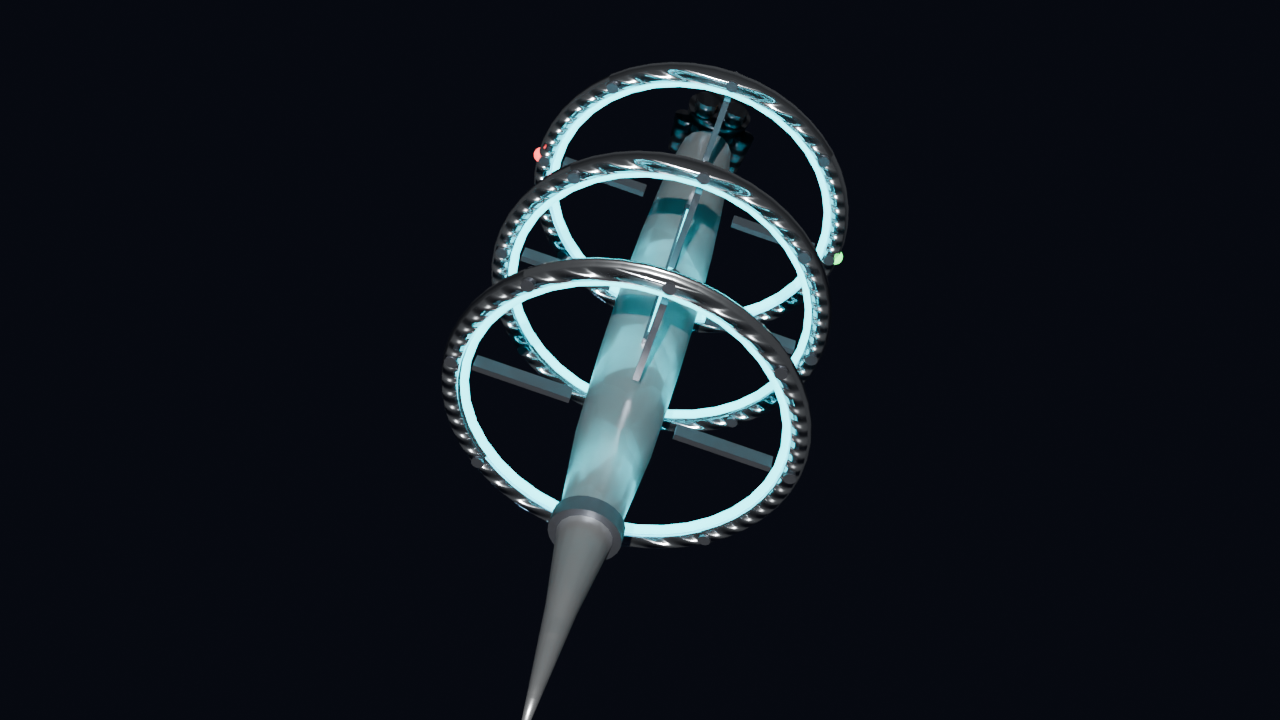
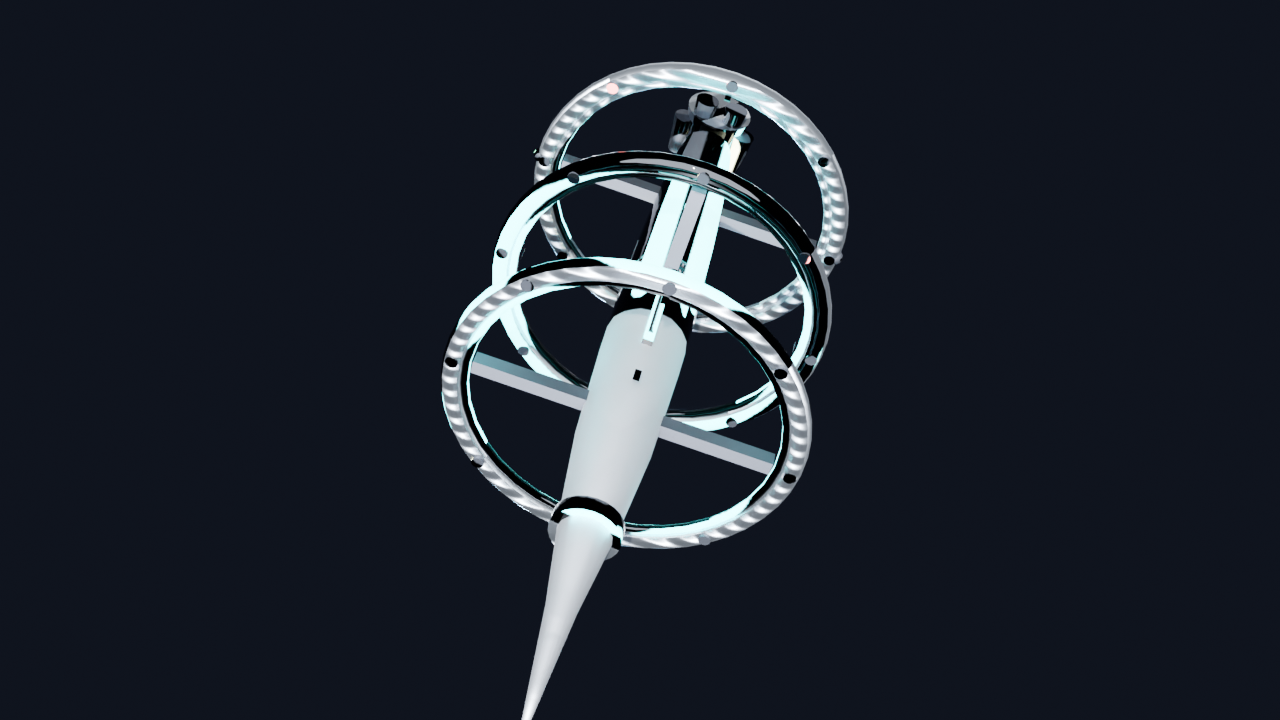
docs(render): refresh Ring Ship showcase from the real OBJ atlas / витрина Ring Ship с реального OBJ

Changed region(s): [[0.3438, 0.0611, 0.6875, 1.0]]

diff --git a/blender/scripts/render_ring_ship_showcase.py b/blender/scripts/render_ring_ship_showcase.py
@@ -1,0 +1,232 @@
+"""Render the current `res/models/ring_ship.obj` showcase (Cycles CPU).
+
+The Ring Ship OBJ is a hand-tuned, git-ignored asset: its baked PBR atlas
+matches the UV layout that was produced by `generate_ring_ship.py` on
+2026-10-26. Re-running the generator would re-project UVs and invalidate the
+existing BMP set, so this script deliberately renders the *existing* mesh and
+atlas instead of regenerating them.
+
+Usage (headless):
+  blender -b -P blender/scripts/render_ring_ship_showcase.py
+  blender -b -P blender/scripts/render_ring_ship_showcase.py -- --quick
+  blender -b -P blender/scripts/render_ring_ship_showcase.py -- --out path.png
+
+Options after `--`: --quick (640x360 preview), --out PATH, --flat (debug
+material without the atlas), --no-flip-v (keep raw OBJ UVs; the baked BMP
+atlas is top-down, so V is flipped by default).
+
+Writes:
+  blender/out/final_showcase/ring_ship_showcase.png
+  docs/screens/ring_ship_showcase.png
+"""
+import math
+import os
+import shutil
+import sys
+
+import bpy
+from mathutils import Vector
+
+SCRIPT_DIR = os.path.dirname(os.path.abspath(__file__))
+PROJECT_ROOT = os.path.dirname(SCRIPT_DIR)  # blender/
+REPO_ROOT = os.path.dirname(PROJECT_ROOT)   # astro-voyager/
+RES_MODELS = os.path.join(REPO_ROOT, "res", "models")
+OUT_SHOWCASE = os.path.join(PROJECT_ROOT, "out", "final_showcase")
+DOCS_SCREENS = os.path.join(REPO_ROOT, "docs", "screens")
+
+OBJ_PATH = os.path.join(RES_MODELS, "ring_ship.obj")
+
+
+def argv_flag(name):
+    return name in sys.argv
+
+
+def argv_value(name, default):
+    if name in sys.argv:
+        i = sys.argv.index(name)
+        if i + 1 < len(sys.argv):
+            return sys.argv[i + 1]
+    return default
+
+
+def load_texture(name, non_color=False):
+    path = os.path.join(RES_MODELS, name)
+    if not os.path.isfile(path):
+        raise FileNotFoundError(path)
+    img = bpy.data.images.load(path, check_existing=True)
+    if non_color:
+        img.colorspace_settings.name = "Non-Color"
+    return img
+
+
+def build_flat_material():
+    """Debug material: no atlas, just a neutral PBR surface."""
+    mat = bpy.data.materials.new("RingShipFlat")
+    mat.use_nodes = True
+    bsdf = mat.node_tree.nodes.get("Principled BSDF")
+    bsdf.inputs["Base Color"].default_value = (0.72, 0.78, 0.88, 1.0)
+    bsdf.inputs["Metallic"].default_value = 0.55
+    bsdf.inputs["Roughness"].default_value = 0.32
+    return mat
+
+
+def build_baked_material():
+    """Principled BSDF wired to the five baked BMP maps of the ship atlas."""
+    mat = bpy.data.materials.new("RingShipBaked")
+    mat.use_nodes = True
+    nt = mat.node_tree
+    bsdf = nt.nodes.get("Principled BSDF")
+
+    albedo = nt.nodes.new("ShaderNodeTexImage")
+    albedo.name = "Albedo"
+    albedo.image = load_texture("ring_ship_albedo.bmp")
+    nt.links.new(albedo.outputs["Color"], bsdf.inputs["Base Color"])
+
+    rough = nt.nodes.new("ShaderNodeTexImage")
+    rough.name = "Roughness"
+    rough.image = load_texture("ring_ship_rough.bmp", non_color=True)
+    nt.links.new(rough.outputs["Color"], bsdf.inputs["Roughness"])
+
+    metal = nt.nodes.new("ShaderNodeTexImage")
+    metal.name = "Metallic"
+    metal.image = load_texture("ring_ship_metal.bmp", non_color=True)
+    nt.links.new(metal.outputs["Color"], bsdf.inputs["Metallic"])
+
+    normal_tex = nt.nodes.new("ShaderNodeTexImage")
+    normal_tex.name = "Normal"
+    normal_tex.image = load_texture("ring_ship_normal.bmp", non_color=True)
+    normal_map = nt.nodes.new("ShaderNodeNormalMap")
+    nt.links.new(normal_tex.outputs["Color"], normal_map.inputs["Color"])
+    nt.links.new(normal_map.outputs["Normal"], bsdf.inputs["Normal"])
+
+    emissive = nt.nodes.new("ShaderNodeTexImage")
+    emissive.name = "Emissive"
+    emissive.image = load_texture("ring_ship_emissive.bmp")
+    if "Emission Color" in bsdf.inputs:
+        nt.links.new(emissive.outputs["Color"], bsdf.inputs["Emission Color"])
+    else:  # Blender 3.x name
+        nt.links.new(emissive.outputs["Color"], bsdf.inputs["Emission"])
+    if "Emission Strength" in bsdf.inputs:
+        # The generator bakes a clamped 0..1 emissive atlas but shades the
+        # emitter at strength 4.5; mirror that here or the plasma band goes
+        # dull grey in the showcase.
+        bsdf.inputs["Emission Strength"].default_value = 7.0
+    return mat
+
+
+def setup_render(scene, quick):
+    scene.render.engine = "CYCLES"
+    scene.cycles.device = "CPU"
+    scene.render.resolution_x = 640 if quick else 1280
+    scene.render.resolution_y = 360 if quick else 720
+    scene.render.resolution_percentage = 100
+    scene.render.film_transparent = False
+    scene.cycles.samples = 12 if quick else 64
+    scene.cycles.use_denoising = True
+    scene.view_settings.exposure = 0.6
+
+    # Deep space background, same values as generate_ring_ship.py.
+    world = scene.world
+    if world is None:
+        world = bpy.data.worlds.new("SpaceWorld")
+        scene.world = world
+    world.use_nodes = True
+    bg = world.node_tree.nodes.get("Background")
+    if bg:
+        bg.inputs["Color"].default_value = (0.010, 0.012, 0.022, 1.0)
+        bg.inputs["Strength"].default_value = 0.55
+
+
+def add_camera_and_lights(scene):
+    cam_data = bpy.data.cameras.new("ShowcaseCam")
+    cam_data.lens = 42
+    cam = bpy.data.objects.new("ShowcaseCam", cam_data)
+    cam.location = (2.2, -2.5, 1.4)
+    direction = Vector((0.0, 0.0, 0.0)) - cam.location
+    cam.rotation_euler = direction.to_track_quat("-Z", "Y").to_euler()
+    scene.collection.objects.link(cam)
+    scene.camera = cam
+
+    key_data = bpy.data.lights.new("KeySun", type="SUN")
+    key_data.energy = 7.5
+    key_data.color = (1.0, 0.98, 0.92)
+    key = bpy.data.objects.new("KeySun", key_data)
+    key.rotation_euler = Vector((-0.9, 1.1, -0.8)).normalized().to_track_quat(
+        "-Z", "Y").to_euler()
+    scene.collection.objects.link(key)
+
+    rim_data = bpy.data.lights.new("RimFill", type="SUN")
+    rim_data.energy = 4.5
+    rim_data.color = (0.35, 0.70, 1.0)
+    rim = bpy.data.objects.new("RimFill", rim_data)
+    rim.rotation_euler = Vector((1.0, -0.8, 1.0)).normalized().to_track_quat(
+        "-Z", "Y").to_euler()
+    scene.collection.objects.link(rim)
+
+    # Soft camera-side fill so the baked metal atlas does not read as black
+    # patches against the deep-space background.
+    fill_data = bpy.data.lights.new("SoftFill", type="AREA")
+    fill_data.energy = 1200.0
+    fill_data.shape = "DISK"
+    fill_data.size = 7.0
+    fill_data.color = (0.78, 0.86, 1.0)
+    fill = bpy.data.objects.new("SoftFill", fill_data)
+    fill.location = (3.2, -4.0, 2.6)
+    fill.rotation_euler = (Vector((0.0, 0.0, 0.0)) - fill.location).to_track_quat(
+        "-Z", "Y").to_euler()
+    scene.collection.objects.link(fill)
+
+
+def main():
+    if not os.path.isfile(OBJ_PATH):
+        raise FileNotFoundError(OBJ_PATH)
+
+    bpy.ops.wm.read_factory_settings(use_empty=True)
+    scene = bpy.context.scene
+    quick = argv_flag("--quick")
+
+    # Round-trip the same axis convention the generator used for export.
+    bpy.ops.wm.obj_import(filepath=OBJ_PATH, forward_axis="Y", up_axis="Z")
+    ship = next(o for o in bpy.context.selected_objects if o.type == "MESH")
+    ship.name = "RingShip"
+
+    # The game's BMP atlas is stored top-down while Blender's image origin is
+    # bottom-left; flip V so the baked islands land where the OBJ UVs expect.
+    if not argv_flag("--no-flip-v"):
+        uv_layer = ship.data.uv_layers.active
+        if uv_layer is not None:
+            for loop_uv in uv_layer.data:
+                loop_uv.uv.y = 1.0 - loop_uv.uv.y
+
+    # The OBJ has no material slots: one baked atlas covers every face.
+    ship.data.materials.clear()
+    ship.data.materials.append(
+        build_flat_material() if argv_flag("--flat") else build_baked_material())
+    for poly in ship.data.polygons:
+        poly.material_index = 0
+        poly.use_smooth = True
+
+    # Same cinematic 3/4 tilt as the procedural generator showcase.
+    ship.rotation_euler = (math.radians(-72), math.radians(18), math.radians(35))
+    bpy.context.view_layer.update()
+
+    setup_render(scene, quick)
+    add_camera_and_lights(scene)
+
+    out_png = argv_value(
+        "--out", os.path.join(OUT_SHOWCASE, "ring_ship_showcase.png"))
+    os.makedirs(os.path.dirname(out_png), exist_ok=True)
+    scene.render.filepath = out_png
+    print(f"Rendering {OBJ_PATH} -> {out_png} "
+          f"({'quick' if quick else 'final'})")
+    bpy.ops.render.render(write_still=True)
+
+    if not quick:
+        doc_dest = os.path.join(DOCS_SCREENS, "ring_ship_showcase.png")
+        shutil.copyfile(out_png, doc_dest)
+        print(f"Copied showcase to {doc_dest}")
+    print("Ring Ship showcase render complete.")
+
+
+if __name__ == "__main__":
+    main()

diff --git a/CHANGELOG.md b/CHANGELOG.md
@@ -5,6 +5,8 @@
 ## What's new / Что нового
 - EN: Hull-mounted spinning warp rings - each Ring Ship hoop now has two static pylons anchoring it to the fuselage (rings 1/3 horizontal, ring 2 vertical), so the three rings no longer form a longitudinal cage. The shader spins only the torus band (r >= 0.372) in its own plane; mounts stay rigid while running lights ride with the ring. The procedural fallback and the Blender generator follow the same two-pylon rule.
 - RU: Кольца варп-корабля на пилонах - каждый обруч Ring Ship получил два статических пилона к корпусу (кольца 1/3 - горизонтальные, кольцо 2 - вертикальное), поэтому три кольца больше не образуют продольную «клетку». Шейдер вращает только тор (r >= 0.372) строго в его плоскости; пилоны неподвижны, а ходовые огни едут вместе с кольцом. Процедурный fallback и Blender-генератор используют то же правило двух пилонов.
+- EN: Ring Ship showcase re-rendered from the actual hand-tuned OBJ and its baked PBR atlas (`blender/scripts/render_ring_ship_showcase.py`); the image now shows the staggered two-pylon mounts instead of the old four-spoke cage. The script flips the top-down BMP atlas V coordinate so the asset renders faithfully in Blender.
+- RU: Витрина Ring Ship перерендерена с реального OBJ и запечённого PBR-атласа (`blender/scripts/render_ring_ship_showcase.py`); на кадре теперь видны два пилона на кольцо вместо старой четырёхспицевой клетки. Скрипт переворачивает V-координату BMP-атласа, чтобы корректно рендерить ассет в Blender.
 - EN: Adventure finale branch - after M13 Mia Sato asks the crew to choose: found the colony or spend the last fuel on a jump to the far horizon. Two ending slides, a persisted `finaleChoice` in `expedition.json`, and a one-time prompt for legacy finished saves.
 - RU: Финальная развилка Adventure - после M13 Мия Сато предлагает экипажу выбор: основать колонию или потратить последнее топливо на прыжок к дальнему горизонту. Две концовки, `finaleChoice` в `expedition.json` и однократное предложение выбора для старых завершённых сейвов.
 - EN: Warp aura is gated to actual warp distortion, Shift boost burns ordinary fuel and reads `[BOOST]`, and the cocoon/trail lines are dimmer.
